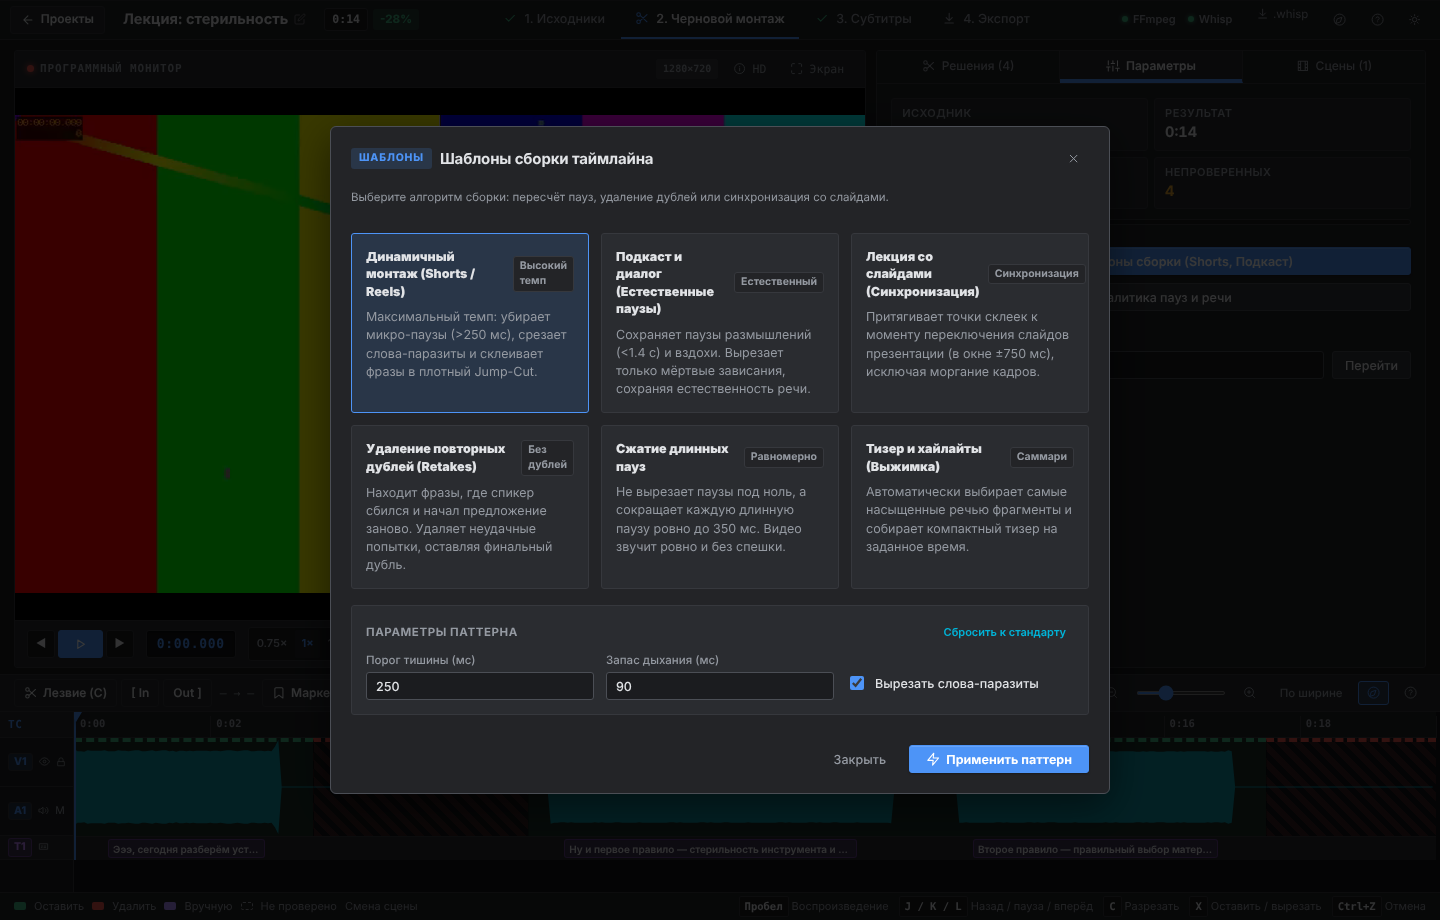
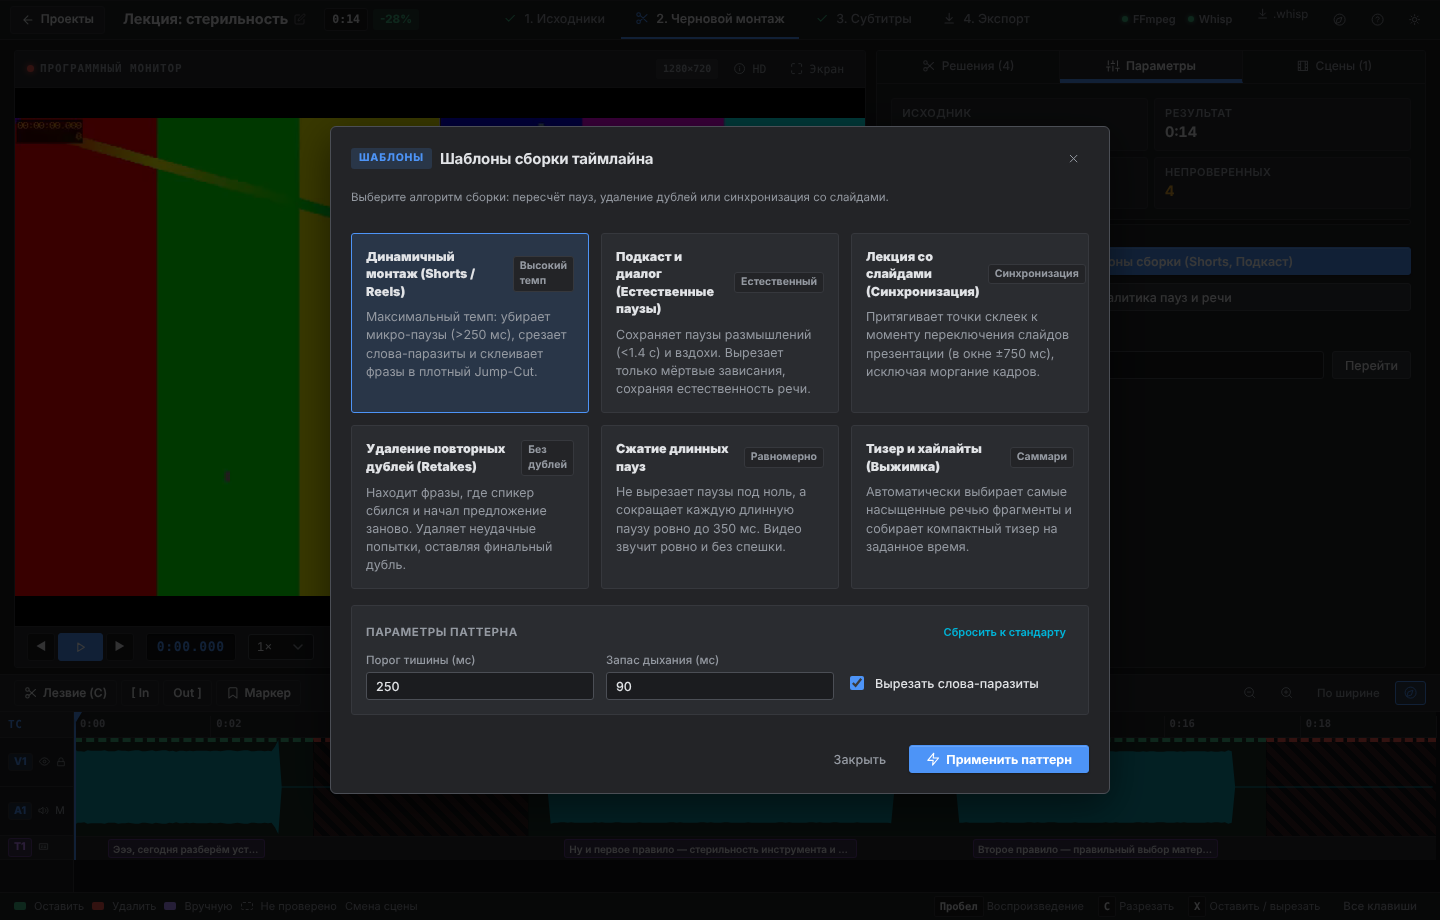
UI: разгружен монтаж: скорость списком, лишнее в меню «…», тулбар таймлайна без FPS/справки/ползунка, короче подсказки клавиш
Claude-Session: https://claude.ai/code/session_01DF561mnDsFx3onGChxrfzS

diff --git a/frontend/src/components/Editor.tsx b/frontend/src/components/Editor.tsx
@@ -664,17 +664,9 @@ export default function Editor({ pid, project, payload, onPayload, scenes, wave,
             </div>
 
             {/* Скорость воспроизведения */}
-            <div className="nle-speed-chips">
-              {[0.75, 1, 1.25, 1.5, 2].map((r) => (
-                <button
-                  key={r}
-                  className={`nle-speed-chip ${rate === r ? "active" : ""}`}
-                  onClick={() => setRate(r)}
-                >
-                  {r}×
-                </button>
-              ))}
-            </div>
+            <select className="nle-rate-select" value={rate} onChange={(e) => setRate(Number(e.target.value))} title={lang === "ru" ? "Скорость воспроизведения" : "Playback speed"}>
+              {[0.5, 0.75, 1, 1.25, 1.5, 2].map((r) => <option key={r} value={r}>{r}×</option>)}
+            </select>
 
             {/* Громкость */}
             <div className="nle-volume-wrap">
@@ -701,7 +693,10 @@ export default function Editor({ pid, project, payload, onPayload, scenes, wave,
               <input type="checkbox" checked={skipCuts} onChange={(e) => setSkipCuts(e.target.checked)} />
               <span>{lang === "ru" ? "Пропускать вырезанное" : "Skip cuts"}</span>
             </label>
-            <label className="nle-check-chip" title="Звук при покадровом шаге">
+            <details className="row-menu transport-more">
+              <summary title={lang === "ru" ? "Ещё настройки предпросмотра" : "More preview options"}>⋯</summary>
+              <div className="row-menu-pop">
+            <label className="nle-check-chip pop-check" title="Звук при покадровом шаге">
               <input
                 type="checkbox"
                 checked={audioScrub}
@@ -712,6 +707,8 @@ export default function Editor({ pid, project, payload, onPayload, scenes, wave,
               />
               <span>{lang === "ru" ? "Звук при шаге" : "Scrub"}</span>
             </label>
+              </div>
+            </details>
           </div>
         </div>
 
@@ -937,9 +934,12 @@ export default function Editor({ pid, project, payload, onPayload, scenes, wave,
           >
             Out ]
           </button>
-          <span className="nle-range-display">
-            {markIn != null ? fmtTime(markIn) : "—"} → {markOut != null ? fmtTime(markOut) : "—"}
-          </span>
+          {(markIn != null || markOut != null) && (
+            <span className="nle-range-display">
+              {markIn != null ? fmtTime(markIn) : "—"} → {markOut != null ? fmtTime(markOut) : "—"}
+              <button className="nle-btn-micro" title={lang === "ru" ? "Сбросить отрезок" : "Clear range"} onClick={() => { setMarkIn(null); setMarkOut(null); }}>✕</button>
+            </span>
+          )}
 
           {rangeOk && (
             <>
@@ -974,21 +974,9 @@ export default function Editor({ pid, project, payload, onPayload, scenes, wave,
         </div>
 
         <div className="row" style={{ gap: 6, marginLeft: "auto", alignItems: "center" }}>
-          <span className="nle-badge-fps">
-            {fps.toFixed(0)} FPS
-          </span>
           <button className="nle-btn-ghost small" onClick={() => setPps((p) => Math.max(0.5, p * 0.75))} title={t("editor.zoom_out")}>
             <Icon name="zoom-out" />
           </button>
-          <input
-            type="range"
-            min={0.5}
-            max={300}
-            step={0.5}
-            value={pps}
-            onChange={(e) => setPps(Number(e.target.value))}
-            className="nle-zoom-slider"
-          />
           <button className="nle-btn-ghost small" onClick={() => setPps((p) => Math.min(300, p * 1.33))} title={t("editor.zoom_in")}>
             <Icon name="zoom-in" />
           </button>
@@ -1001,9 +989,6 @@ export default function Editor({ pid, project, payload, onPayload, scenes, wave,
             title={t("editor.autoscroll.title")}
           >
             <Icon name="compass" />
-          </button>
-          <button className="nle-btn-ghost small" onClick={() => setShowHelp(true)} title={t("common.help")}>
-            <Icon name="help" />
           </button>
         </div>
       </div>
@@ -1042,10 +1027,9 @@ export default function Editor({ pid, project, payload, onPayload, scenes, wave,
         </div>
         <div className="nle-hotkey-cheatsheet">
           <span><kbd>Пробел</kbd> {lang === "ru" ? "Воспроизведение" : "Play"}</span>
-          <span><kbd>J / K / L</kbd> {lang === "ru" ? "Назад / пауза / вперёд" : "Shuttle"}</span>
           <span><kbd>C</kbd> {lang === "ru" ? "Разрезать" : "Razor"}</span>
           <span><kbd>X</kbd> {lang === "ru" ? "Оставить / вырезать" : "Toggle Cut"}</span>
-          <span><kbd>Ctrl+Z</kbd> {lang === "ru" ? "Отмена" : "Undo"}</span>
+          <button className="nle-btn-ghost small" onClick={() => setShowHelp(true)}>{lang === "ru" ? "Все клавиши" : "All shortcuts"}</button>
         </div>
       </footer>
 

diff --git a/frontend/src/styles.css b/frontend/src/styles.css
@@ -1825,3 +1825,12 @@ main:has(> .nle-manager-toolbar) { max-width: 1400px; }
 .nle-manager-toolbar { flex-wrap: nowrap; justify-content: space-between; gap: 16px; }
 .nle-manager-actions { flex-wrap: nowrap; }
 .nle-manager-actions .nle-search-input { width: 180px; }
+
+/* Монтаж: меньше элементов в панелях */
+.nle-rate-select { height: 26px; min-height: 26px; width: 66px; padding: 0 22px 0 8px; font-size: 12px; font-variant-numeric: tabular-nums; }
+.transport-more .row-menu-pop { top: auto; bottom: 30px; right: 0; min-width: 170px; padding: 8px 10px; }
+.pop-check { margin: 0; white-space: nowrap; }
+.nle-range-display { display: inline-flex; align-items: center; gap: 6px; font-family: ui-monospace, monospace; font-size: 11.5px; color: var(--muted); padding: 0 6px; }
+.nle-hotkey-cheatsheet { align-items: center; gap: 14px; }
+.nle-tool-btn { height: 26px; min-height: 26px; }
+.nle-timeline-toolbar { gap: 10px; padding-top: 5px; padding-bottom: 5px; }
